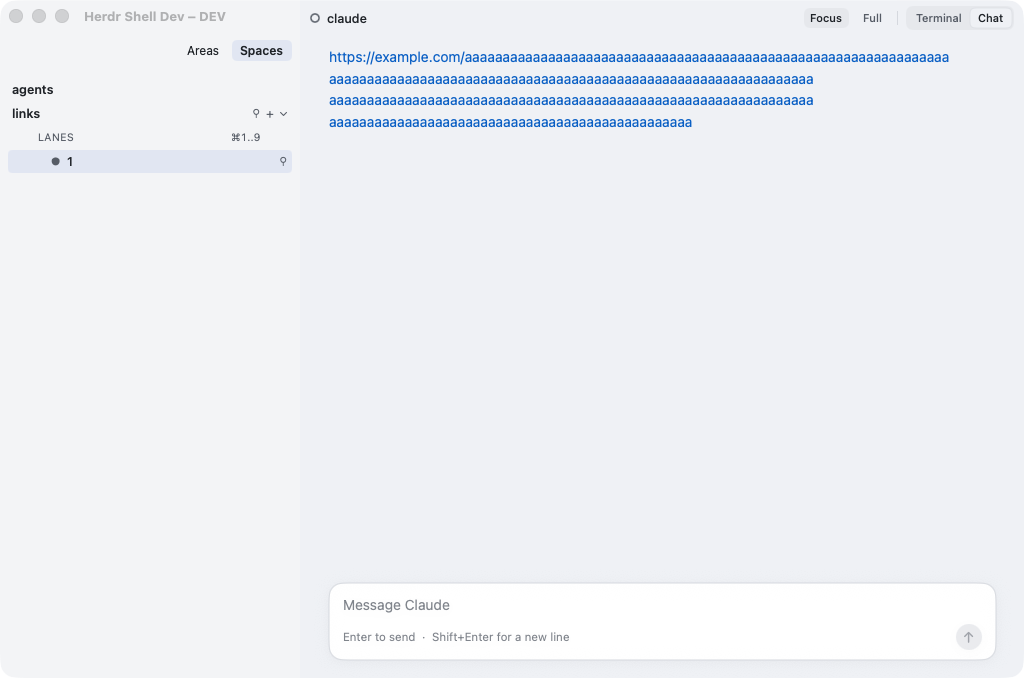
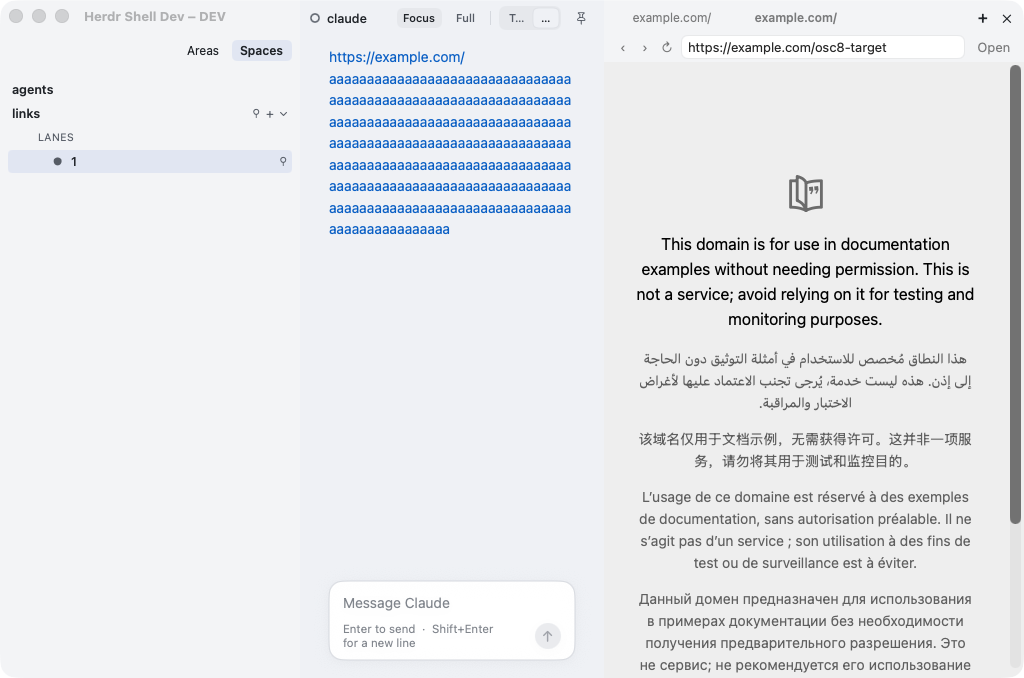
fix(shell): cmd-click opens the full url past the viewport, and a refused desk open falls back to the browser
A hover-resolved link holds only the visible cells, so a url clipped at
the viewport edge opened clipped; activation's target now wins when it
continues the resolved text. desk.open failures (a file the pane's server
cannot see) now open externally instead of doing nothing. The links Space
proof checks the server desk, not only the pre-open receipt, and drives a
refusal through the real caller. Its OSC 8 label click still opens the
wrapped url; that fails on the base too and stays failing in the report.

Review fix round for 80393eeb and 5f087ffd.

diff --git a/macos/HerdrShell/Sources/HerdrShell/TerminalLinkDecision.swift b/macos/HerdrShell/Sources/HerdrShell/TerminalLinkDecision.swift
@@ -1,13 +1,15 @@
 import Foundation
 
 /// Click policy kept independent of AppKit/socket timing. A resolved client target
-/// remains authoritative if activation refuses or returns a different target.
+/// remains authoritative if activation refuses or returns a different target; it gives
+/// way only to an activation that continues it, since it holds just the visible cells.
 enum TerminalLinkDecision {
     static func needsResolution(cachedURL: String?) -> Bool { cachedURL == nil }
 
     static func openTarget(resolved: String?, activated: String?, handled: Bool) -> String? {
         if handled { return nil }
-        if let resolved { return resolved }
-        return activated
+        guard let resolved else { return activated }
+        if let activated, activated.count > resolved.count, activated.hasPrefix(resolved) { return activated }
+        return resolved
     }
 }

diff --git a/macos/HerdrShell/Sources/HerdrShell/MainWindow.swift b/macos/HerdrShell/Sources/HerdrShell/MainWindow.swift
@@ -473,7 +473,11 @@ final class MainWindowController: NSObject, NSWindowDelegate {
                 guard let self else { return }
                 switch result {
                 case .unsupported: self.docPanel.addTransient(url, tabId: tabId)
-                case .failed: return
+                case .failed:
+                    // A refused open (say a file the pane's server cannot see) still opens, in the browser.
+                    Notifier.shared.recordOpened(url.absoluteString)
+                    shellOpen(url)
+                    return
                 case .result: break
                 }
                 SidebarState.store.set(true, forKey: Self.docsShownKey(tabId))

diff --git a/macos/HerdrShell/scripts/check_links_space.py b/macos/HerdrShell/scripts/check_links_space.py
@@ -170,6 +170,10 @@ def main():
         click("Cmd-click on URL first row records the entire URL", start, 5, "desk " + URL)
         if label_row is not None:
             click("Cmd-click on OSC 8 label records its target", label_row, 2, "desk " + OSC_URL)
+        # The receipt is recorded before the open; the server's desk proves the open itself.
+        desk = json.loads(S.lab("herdr", "desk", "list", "--tab", tab, "--json"))
+        refs = json.dumps(desk)
+        check("the Cmd-clicked URLs landed on the pane's desk", URL in refs and OSC_URL in refs, refs[:300])
         click("Cmd-Shift-click opens the URL externally", start + 1, 2, URL, mods=("cmd", "shift"))
         click("plain click on the URL opens nothing", start + 1, 2, None, mods=())
         # This independently checks the existing hook/callback path, only after the
@@ -179,6 +183,13 @@ def main():
         state = wait(lambda s: s.get("opened_urls", []) != before, 8)
         opened = state.get("opened_urls", [])
         check("open_url_sim records the OSC 8 target", opened != before and bool(opened) and opened[-1] == "desk " + OSC_URL)
+        # A desk refusal still opens: a file the lab server cannot see goes to the browser.
+        missing = "file:///nonexistent-herdr-links-proof/" + uuid.uuid4().hex + ".md"
+        before = list(S.state().get("opened_urls", []))
+        S.cmd({"cmd": "open_url_sim", "url": missing})
+        state = wait(lambda s: len(s.get("opened_urls", [])) >= len(before) + 2, 8)
+        opened = state.get("opened_urls", [])[len(before):]
+        check("a refused desk open falls back to the browser", opened == ["desk " + missing, missing], json.dumps(opened))
     else:
         skip("wrapped-row mouse checks: physical continuation row was not established (see FAIL above)")
     chat_check(pane)

diff --git a/macos/HerdrShell/scripts/check_terminal_links.py b/macos/HerdrShell/scripts/check_terminal_links.py
@@ -17,6 +17,7 @@ CASES = [
     ('click with completed hover', 'TerminalLinkDecision.needsResolution(cachedURL: "https://example.com/a")', 'false'),
     ('refused activation retains resolved URL', 'TerminalLinkDecision.openTarget(resolved: "https://example.com/a", activated: nil, handled: false) ?? "none"', 'https://example.com/a'),
     ('activation cannot replace resolved URL', 'TerminalLinkDecision.openTarget(resolved: "https://example.com/a", activated: "https://example.com/b", handled: false) ?? "none"', 'https://example.com/a'),
+    ('activation continuing a viewport-clipped URL supplies the full URL', 'TerminalLinkDecision.openTarget(resolved: "https://example.com/abcdefghijklmnopqrst", activated: "https://example.com/abcdefghijklmnopqrstuv", handled: false) ?? "none"', 'https://example.com/abcdefghijklmnopqrstuv'),
     ('uncached activation supplies full URL', 'TerminalLinkDecision.openTarget(resolved: nil, activated: "https://example.com/full", handled: false) ?? "none"', 'https://example.com/full'),
     ('plugin handled opens nothing twice', 'TerminalLinkDecision.openTarget(resolved: "https://example.com/a", activated: "https://example.com/a", handled: true) ?? "none"', 'none'),
     ('no resolved target and refusal is native miss', 'TerminalLinkDecision.openTarget(resolved: nil, activated: nil, handled: false) ?? "none"', 'none'),
